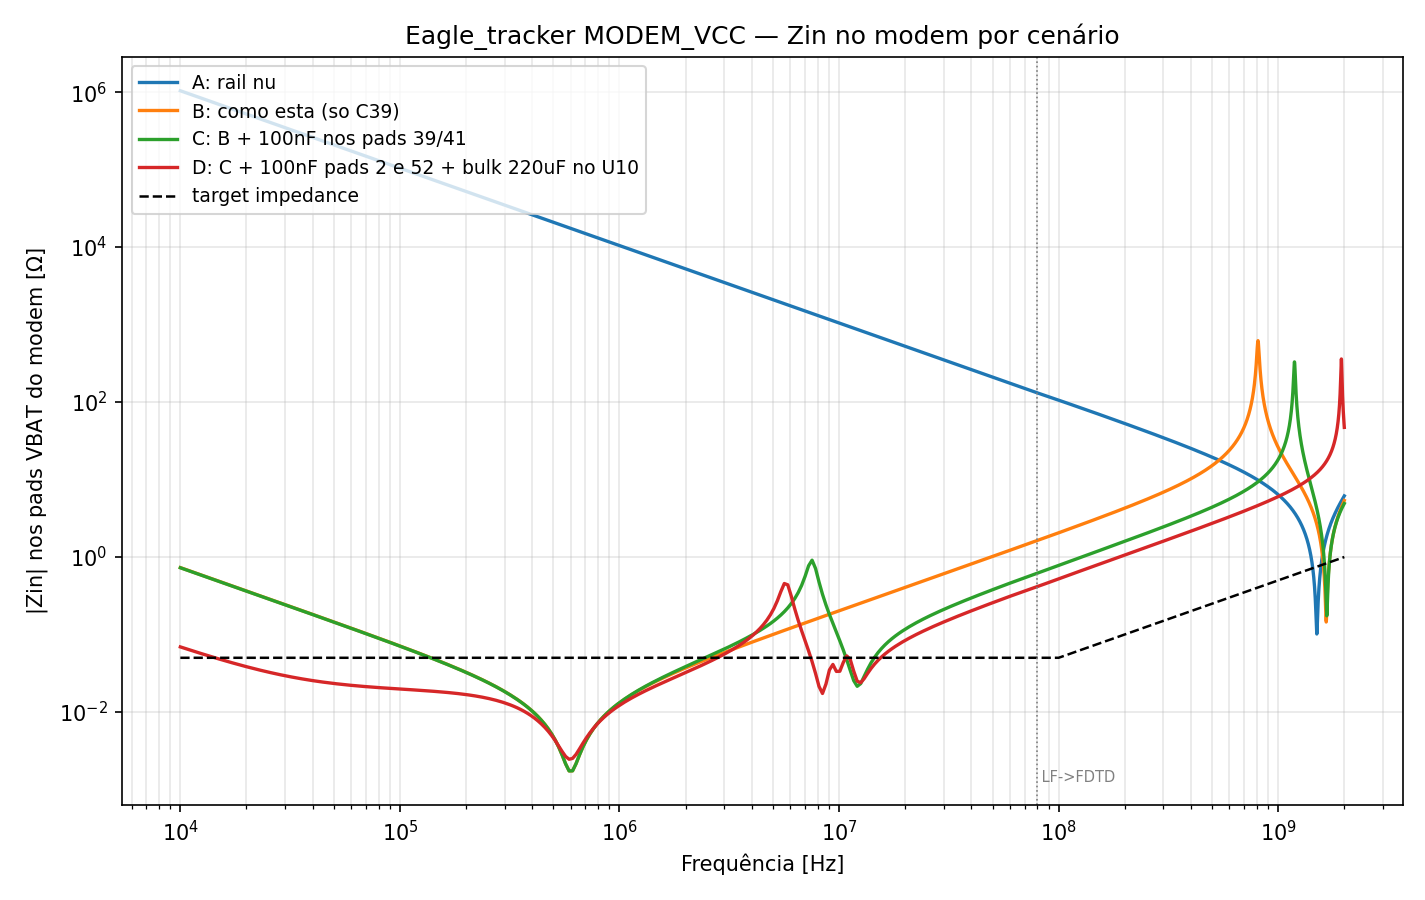
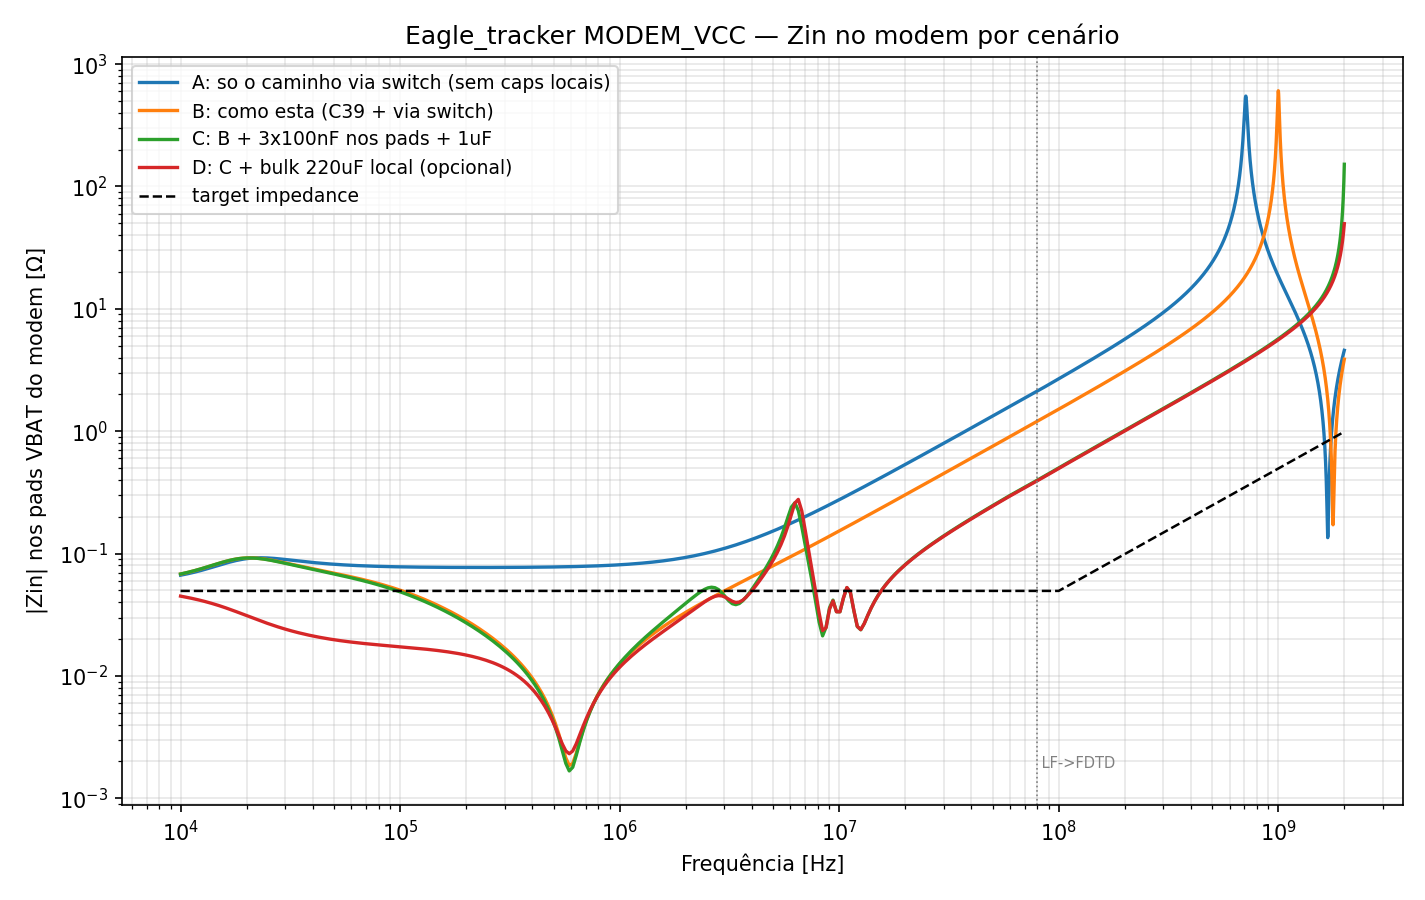
Caso 9 v3: modela caminho upstream via U10 (Ron + C36 220uF + regulador) apos review do usuario - LF marginal, deficit real e 3-50 MHz

diff --git a/em_suite/cases/case09_eagle_pdn/study.py b/em_suite/cases/case09_eagle_pdn/study.py
@@ -41,8 +41,43 @@ F_KNEE = 100e6
 C39 = Decap(c=22e-6, esr=4e-3, esl=0.7e-9, l_mnt=1.0e-9, name='C39 22uF')
 C_PROP = Decap(c=100e-9, esr=20e-3, esl=0.5e-9, l_mnt=0.8e-9,
                name='100nF 0402 proposto')
-BULK = Decap(c=220e-6, esr=25e-3, esl=1.6e-9, l_mnt=1.0e-9,
-             name='bulk 220uF polimero proposto')
+C1U = Decap(c=1e-6, esr=15e-3, esl=0.8e-9, l_mnt=0.8e-9,
+            name='1uF 0603 proposto')
+BULK = Decap(c=220e-6, esr=30e-3, esl=1.6e-9, l_mnt=1.0e-9,
+             name='bulk 220uF local proposto')
+
+
+class Upstream:
+    """Caminho REAL através do load switch U10 (correção pós-review do
+    usuário — a v1 deixava esta porta vazia e superestimava a violação
+    de LF em 10x): Ron ~50 mohm (dado do usuário) em série com o
+    paralelo de C36 (WCAP-PSLP 220 uF, ESR ~30 mohm, na entrada do U10,
+    confirmado no Altium) e o regulador de 3.3 V, modelado
+    comportamentalmente como 10 mohm + 300 nH (ativo em LF, saindo de
+    cena acima de ~dezenas de kHz). Acima de ~1 MHz este caminho é
+    bloqueado pelo Ron + indutâncias — os decaps locais dominam."""
+    name = 'via U10: Ron + (C36 || reg)'
+
+    def z(self, f):
+        w = 2 * np.pi * np.asarray(f, dtype=float)
+        zc36 = 0.030 + 1j * w * 2.5e-9 + 1.0 / (1j * w * 220e-6)
+        zreg = 0.010 + 1j * w * 300e-9
+        return 0.050 + zc36 * zreg / (zc36 + zreg)
+
+
+class Par:
+    """Cargas em paralelo na mesma porta."""
+
+    def __init__(self, *loads):
+        self.loads = loads
+        self.name = ' || '.join(getattr(ld, 'name', '?') for ld in loads)
+
+    def z(self, f):
+        y = sum(1.0 / ld.z(f) for ld in self.loads)
+        return 1.0 / y
+
+
+UP = Upstream()
 
 P_MODEM, P_C39, P_U10, P_PROP, P_PAD2, P_PAD52 = 0, 1, 2, 3, 4, 5
 
@@ -75,12 +110,14 @@ def main():
     zt = target.target_profile(f_all, V_RAIL, RIPPLE, DI, f_knee=F_KNEE)
 
     cenarios = {
-        'A: rail nu': {},
-        'B: como esta (so C39)': {P_C39: C39},
-        'C: B + 100nF nos pads 39/41': {P_C39: C39, P_PROP: C_PROP},
-        'D: C + 100nF pads 2 e 52 + bulk 220uF no U10':
-            {P_C39: C39, P_PROP: C_PROP, P_PAD2: C_PROP,
-             P_PAD52: C_PROP, P_U10: BULK},
+        'A: so o caminho via switch (sem caps locais)': {P_U10: UP},
+        'B: como esta (C39 + via switch)': {P_U10: UP, P_C39: C39},
+        'C: B + 3x100nF nos pads + 1uF':
+            {P_U10: UP, P_C39: Par(C39, C1U), P_PROP: C_PROP,
+             P_PAD2: C_PROP, P_PAD52: C_PROP},
+        'D: C + bulk 220uF local (opcional)':
+            {P_U10: Par(UP, BULK), P_C39: Par(C39, C1U), P_PROP: C_PROP,
+             P_PAD2: C_PROP, P_PAD52: C_PROP},
     }
 
     fig, ax = plt.subplots(figsize=(9.5, 6))
@@ -122,23 +159,25 @@ def main():
     fig.savefig(HERE / 'study.png', dpi=150)
 
     report.append(
-        '\n## Interpretação de engenharia\n'
-        '- O cartão mPCIe carrega os próprios decaps de HF: o dever do '
-        'HOST é a faixa baixa/média. Quantificado pelos cenários:\n'
-        '  1. **LF (envelope do burst GSM)**: como está, viola 14.6x '
-        'abaixo de 137 kHz; o bulk de 220 uF no U10 (cenário D) derruba '
-        'para 1.4x residual abaixo de 14 kHz — RESOLVE na prática. '
-        'Recomendação: 220 uF polímero baixo-ESR junto ao U10/CN4;\n'
-        '  2. **MF**: os 100 nF nos pads (39/41 e 2/52) cobrem '
-        '10-30 MHz; resta um vão de 9.1x em 2.8-7.3 MHz no cenário D — '
-        'fecha com um 1 uF 0603 ao lado de qualquer um dos 100 nF;\n'
+        '\n## Interpretação de engenharia (v3 — pós-review do usuário)\n'
+        '- CORREÇÃO relevante: a v2 deixava a porta do U10 vazia e '
+        'concluía "viola 14.6x em LF, falta bulk". Com o caminho real '
+        'via switch (Ron 50 mohm + C36 220 uF + regulador ativo), a LF '
+        'fica MARGINAL, não quebrada: o piso através do switch é '
+        '~Ron + ESR ~ 60-70 mohm vs target de 49.5 mohm — a 2 A de '
+        'burst isso é ~120-140 mV de afundamento (~4% de 3.3 V, '
+        'levemente acima dos 3% assumidos; com burst de 1 A, folga).\n'
+        '- Quem realmente falta é o MEIO da banda: entre ~1 e 50 MHz o '
+        'caminho via switch está bloqueado (Ron + indutâncias) e o C39 '
+        'sozinho já saiu de cena — os 3x100 nF nos pads + 1 uF '
+        '(cenário C) são a correção essencial;\n'
+        '- o bulk 220 uF LOCAL no MODEM_VCC (cenário D) vira OPCIONAL: '
+        'compra margem em LF ao contornar o Ron (util se o cartão for '
+        'GSM 2 A; desnecessário para LTE-M ~1 A);\n'
         '- acima de ~50 MHz a responsabilidade é do cartão (decaps '
-        'onboard) — as violações de HF do host são esperadas e não '
-        'acionáveis deste lado;\n'
-        '- o plano contribui pouco aqui: d = 1.23 mm dá C interplano '
-        'minúscula (~3.0 pF/cm2) — o rail vive dos capacitores, e a '
-        'indutância de espalhamento do pour (~1-2 nH) define o teto '
-        'de MF. Consistente com o modelo lumped: mismatch 0.75%.\n'
+        'onboard);\n'
+        '- o plano contribui pouco: d = 1.23 mm -> ~3.0 pF/cm2; o rail '
+        'vive dos capacitores. Mismatch do lumped LF: 0.75%.\n'
         '\n## Notas de modelagem\n'
         '- pour aproximado pelo bbox (o MCP não expõe os vértices); '
         'pads mPCIe 2/52 modelados como portas 5/6;\n'

diff --git a/em_suite/cases/case10_return_path/plot_map.py b/em_suite/cases/case10_return_path/plot_map.py
@@ -1,0 +1,66 @@
+"""Mapa da placa: pours do Int2, trilhas do Bottom e travessias (caso 10)."""
+
+import csv
+from pathlib import Path
+
+import matplotlib
+matplotlib.use('Agg')
+import matplotlib.pyplot as plt
+from matplotlib.patches import Rectangle
+
+HERE = Path(__file__).resolve().parent
+MIL = 0.0254
+
+CORES = {'+3.3VCC': '#f5c343', 'MODEM_VCC': '#e05c5c',
+         '+5VCC': '#7cba5c', 'VSYS': '#5c9fe0', 'GND': '#d9d9d9'}
+
+
+def main():
+    fig, ax = plt.subplots(figsize=(7, 13))
+
+    with open(HERE / 'pours_int2.csv') as fh:
+        pours = list(csv.DictReader(fh))
+    # desenha do maior para o menor (prioridade visual)
+    pours.sort(key=lambda p: -(float(p['right']) - float(p['left']))
+               * (float(p['top']) - float(p['bottom'])))
+    for p in pours:
+        left, bottom = float(p['left']) * MIL, float(p['bottom']) * MIL
+        w = (float(p['right']) - float(p['left'])) * MIL
+        h = (float(p['top']) - float(p['bottom'])) * MIL
+        ax.add_patch(Rectangle((left, bottom), w, h,
+                               facecolor=CORES.get(p['net'], '#cccccc'),
+                               edgecolor='k', lw=0.6, alpha=0.55))
+        ax.text(left + w / 2, bottom + h - 2.5, p['net'], ha='center',
+                fontsize=8, weight='bold')
+
+    with open(HERE / 'tracks_bottom.csv') as fh:
+        for row in csv.DictReader(fh):
+            ax.plot([float(row['x1']) * MIL, float(row['x2']) * MIL],
+                    [float(row['y1']) * MIL, float(row['y2']) * MIL],
+                    color='#3a5a80', lw=0.7, alpha=0.8)
+
+    xs, ys = [], []
+    with open(HERE / 'crossings.csv') as fh:
+        for row in csv.DictReader(fh):
+            if row['power'] == 'False':
+                xs.append(float(row['x_mm']))
+                ys.append(float(row['y_mm']))
+    ax.scatter(xs, ys, marker='x', s=70, color='red', lw=2, zorder=5,
+               label=f'{len(xs)} travessias de sinal')
+
+    ax.set_xlim(-2, 52)
+    ax.set_ylim(-2, 127)
+    ax.set_aspect('equal')
+    ax.set_xlabel('x [mm]')
+    ax.set_ylabel('y [mm]')
+    ax.set_title('Bottom Layer sobre os pours do Int2 (bbox)\n'
+                 'X = travessia de fronteira (return path)')
+    ax.legend(loc='upper right', fontsize=9)
+    ax.grid(alpha=0.2)
+    fig.tight_layout()
+    fig.savefig(HERE / 'board_map.png', dpi=130)
+    print('OK: board_map.png')
+
+
+if __name__ == '__main__':
+    main()

diff --git a/em_suite/cases/case09_eagle_pdn/report.md b/em_suite/cases/case09_eagle_pdn/report.md
@@ -6,34 +6,34 @@ Pour 27.27 x 17.17 mm, d = 1.232 mm (core), eps_r 4.2; mismatch Im do lumped LF:
 
 Target: 3.3 V, ripple 3%, burst 2 A -> Zt = 49.5 mohm até 100 MHz.
 
-## A: rail nu
-- VIOLA Zt de 0.01 a 1.44e+03 MHz (pior: 21032899.5x)
-- VIOLA Zt de 1.57e+03 a 2e+03 MHz (pior: 6.2x)
+## A: so o caminho via switch (sem caps locais)
+- VIOLA Zt de 0.01 a 1.63e+03 MHz (pior: 1555.6x)
+- VIOLA Zt de 1.74e+03 a 2e+03 MHz (pior: 4.6x)
 
-## B: como esta (so C39)
-- VIOLA Zt de 0.01 a 0.137 MHz (pior: 14.6x)
-- VIOLA Zt de 2.62 a 1.6e+03 MHz (pior: 1539.8x)
-- VIOLA Zt de 1.71e+03 a 2e+03 MHz (pior: 5.4x)
+## B: como esta (C39 + via switch)
+- VIOLA Zt de 0.01 a 0.0991 MHz (pior: 1.9x)
+- VIOLA Zt de 3.03 a 1.73e+03 MHz (pior: 1223.1x)
+- VIOLA Zt de 1.83e+03 a 2e+03 MHz (pior: 3.9x)
 
-## C: B + 100nF nos pads 39/41
-- VIOLA Zt de 0.01 a 0.137 MHz (pior: 14.5x)
-- VIOLA Zt de 2.53 a 10.5 MHz (pior: 18.2x)
-- VIOLA Zt de 14.5 a 1.62e+03 MHz (pior: 559.1x)
-- VIOLA Zt de 1.71e+03 a 2e+03 MHz (pior: 4.9x)
-
-## D: C + 100nF pads 2 e 52 + bulk 220uF no U10
-- VIOLA Zt de 0.01 a 0.0139 MHz (pior: 1.4x)
-- VIOLA Zt de 2.82 a 7.27 MHz (pior: 9.1x)
+## C: B + 3x100nF nos pads + 1uF
+- VIOLA Zt de 0.01 a 0.0955 MHz (pior: 1.9x)
+- VIOLA Zt de 2.44 a 2.82 MHz (pior: 1.1x)
+- VIOLA Zt de 4.06 a 7.54 MHz (pior: 5.3x)
 - VIOLA Zt de 10.8 a 10.8 MHz (pior: 1.1x)
-- VIOLA Zt de 15.6 a 2e+03 MHz (pior: 372.6x)
+- VIOLA Zt de 15.6 a 2e+03 MHz (pior: 153.5x)
+
+## D: C + bulk 220uF local (opcional)
+- VIOLA Zt de 4.06 a 7.54 MHz (pior: 5.6x)
+- VIOLA Zt de 10.8 a 10.8 MHz (pior: 1.1x)
+- VIOLA Zt de 15.6 a 2e+03 MHz (pior: 50.2x)
 
 
-## Interpretação de engenharia
-- O cartão mPCIe carrega os próprios decaps de HF: o dever do HOST é a faixa baixa/média. Quantificado pelos cenários:
-  1. **LF (envelope do burst GSM)**: como está, viola 14.6x abaixo de 137 kHz; o bulk de 220 uF no U10 (cenário D) derruba para 1.4x residual abaixo de 14 kHz — RESOLVE na prática. Recomendação: 220 uF polímero baixo-ESR junto ao U10/CN4;
-  2. **MF**: os 100 nF nos pads (39/41 e 2/52) cobrem 10-30 MHz; resta um vão de 9.1x em 2.8-7.3 MHz no cenário D — fecha com um 1 uF 0603 ao lado de qualquer um dos 100 nF;
-- acima de ~50 MHz a responsabilidade é do cartão (decaps onboard) — as violações de HF do host são esperadas e não acionáveis deste lado;
-- o plano contribui pouco aqui: d = 1.23 mm dá C interplano minúscula (~3.0 pF/cm2) — o rail vive dos capacitores, e a indutância de espalhamento do pour (~1-2 nH) define o teto de MF. Consistente com o modelo lumped: mismatch 0.75%.
+## Interpretação de engenharia (v3 — pós-review do usuário)
+- CORREÇÃO relevante: a v2 deixava a porta do U10 vazia e concluía "viola 14.6x em LF, falta bulk". Com o caminho real via switch (Ron 50 mohm + C36 220 uF + regulador ativo), a LF fica MARGINAL, não quebrada: o piso através do switch é ~Ron + ESR ~ 60-70 mohm vs target de 49.5 mohm — a 2 A de burst isso é ~120-140 mV de afundamento (~4% de 3.3 V, levemente acima dos 3% assumidos; com burst de 1 A, folga).
+- Quem realmente falta é o MEIO da banda: entre ~1 e 50 MHz o caminho via switch está bloqueado (Ron + indutâncias) e o C39 sozinho já saiu de cena — os 3x100 nF nos pads + 1 uF (cenário C) são a correção essencial;
+- o bulk 220 uF LOCAL no MODEM_VCC (cenário D) vira OPCIONAL: compra margem em LF ao contornar o Ron (util se o cartão for GSM 2 A; desnecessário para LTE-M ~1 A);
+- acima de ~50 MHz a responsabilidade é do cartão (decaps onboard);
+- o plano contribui pouco: d = 1.23 mm -> ~3.0 pF/cm2; o rail vive dos capacitores. Mismatch do lumped LF: 0.75%.
 
 ## Notas de modelagem
 - pour aproximado pelo bbox (o MCP não expõe os vértices); pads mPCIe 2/52 modelados como portas 5/6;